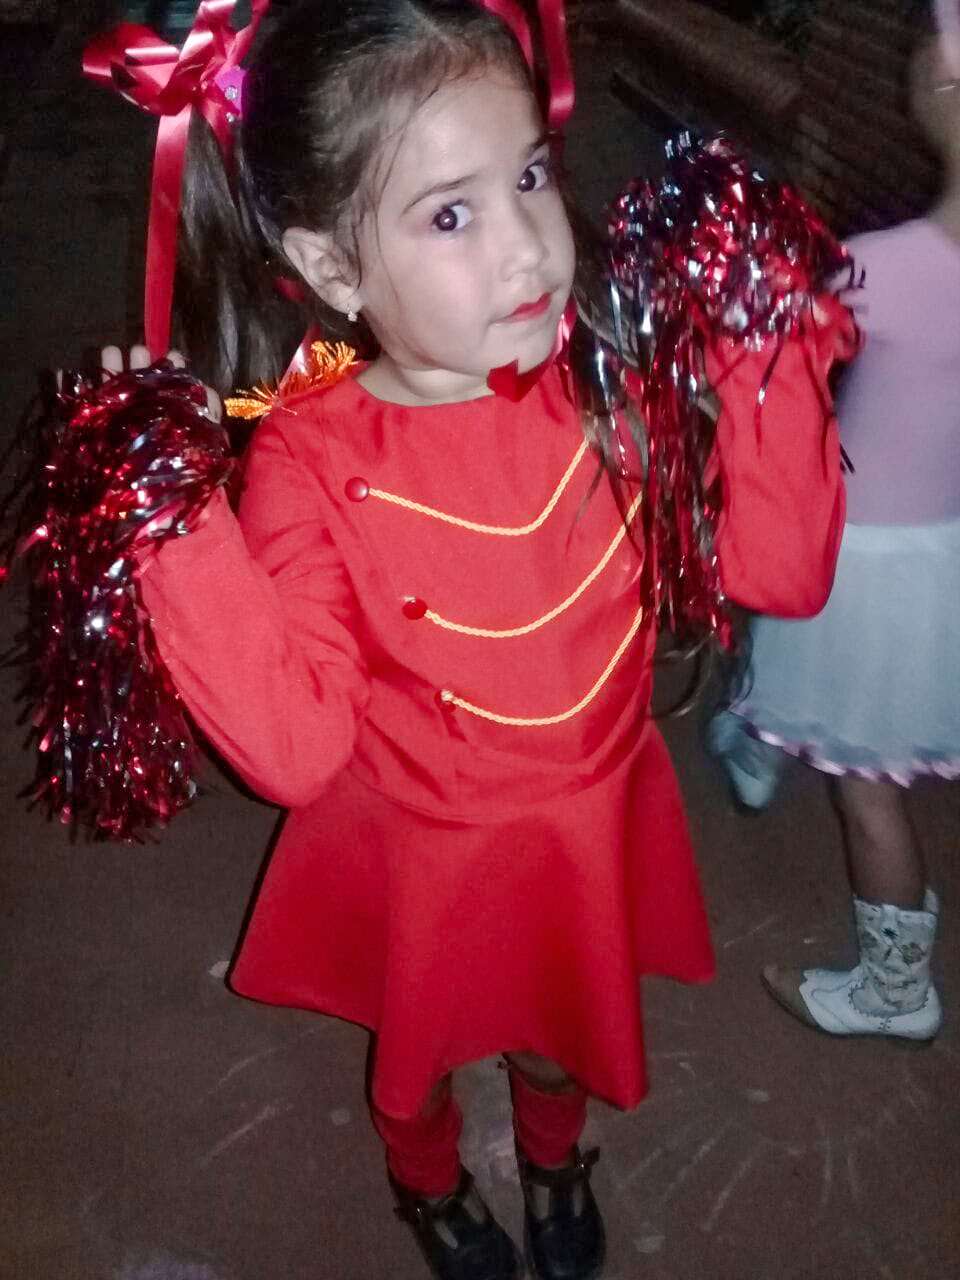
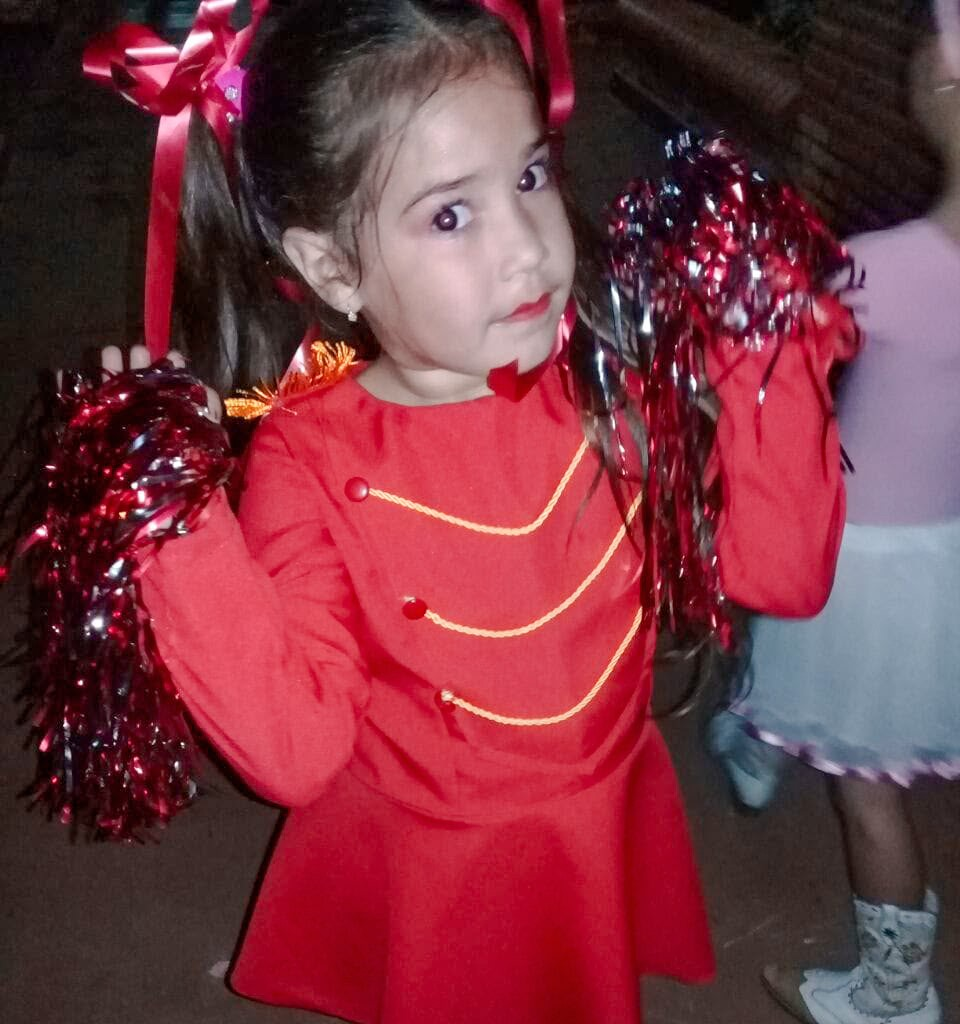
sdfgg

diff --git a/index.html b/index.html
@@ -811,13 +811,15 @@
     <div class="carousel-wrap">
       <div class="carousel">
         <div class="carousel-track" id="galeriaTrack">
+          <div class="slide"><img src="IMG-20260820-WA0083.jpg" alt="Foto 0"></div>
           <div class="slide"><img src="IMG-20260820-WA0070.jpg" alt="Foto 1"></div>
           <div class="slide"><img src="IMG-20260820-WA0072.jpg" alt="Foto 2"></div>
           <div class="slide"><img src="IMG-20260820-WA0074.jpg" alt="Foto 3"></div>
           <div class="slide"><img src="IMG-20260820-WA0075.jpg" alt="Foto 4"></div>
           <div class="slide"><img src="IMG-20260820-WA0077.jpg" alt="Foto 5"></div>
           <div class="slide"><img src="IMG-20260820-WA0079.jpg" alt="Foto 6"></div>
-          <div class="slide"><img src="IMG-20260820-WA0083.jpg" alt="Foto 7"></div>
+          <div class="slide"><img src="IMG-20260820-WA0078.jpg" alt="Foto 7"></div>
+          <div class="slide"><img src="IMG-20260820-WA0076.jpg" alt="Foto 8"></div>
         </div>
         <button class="carousel-arrow prev" id="galeriaPrev">
           <svg viewBox="0 0 24 24" fill="none"><path d="M15 18l-6-6 6-6" stroke="#215e78" stroke-width="2.4" stroke-linecap="round" stroke-linejoin="round"/></svg>
@@ -1163,7 +1165,7 @@ function initGaleriaCarousel() {
 
 function startGaleriaCarousel() {
   if (galeriaInterval) clearInterval(galeriaInterval);
-  galeriaInterval = setInterval(nextGaleria, 3000); // 3 segundos
+  galeriaInterval = setInterval(nextGaleria, 2000); 
 }
 
 function pauseGaleriaCarousel() {
